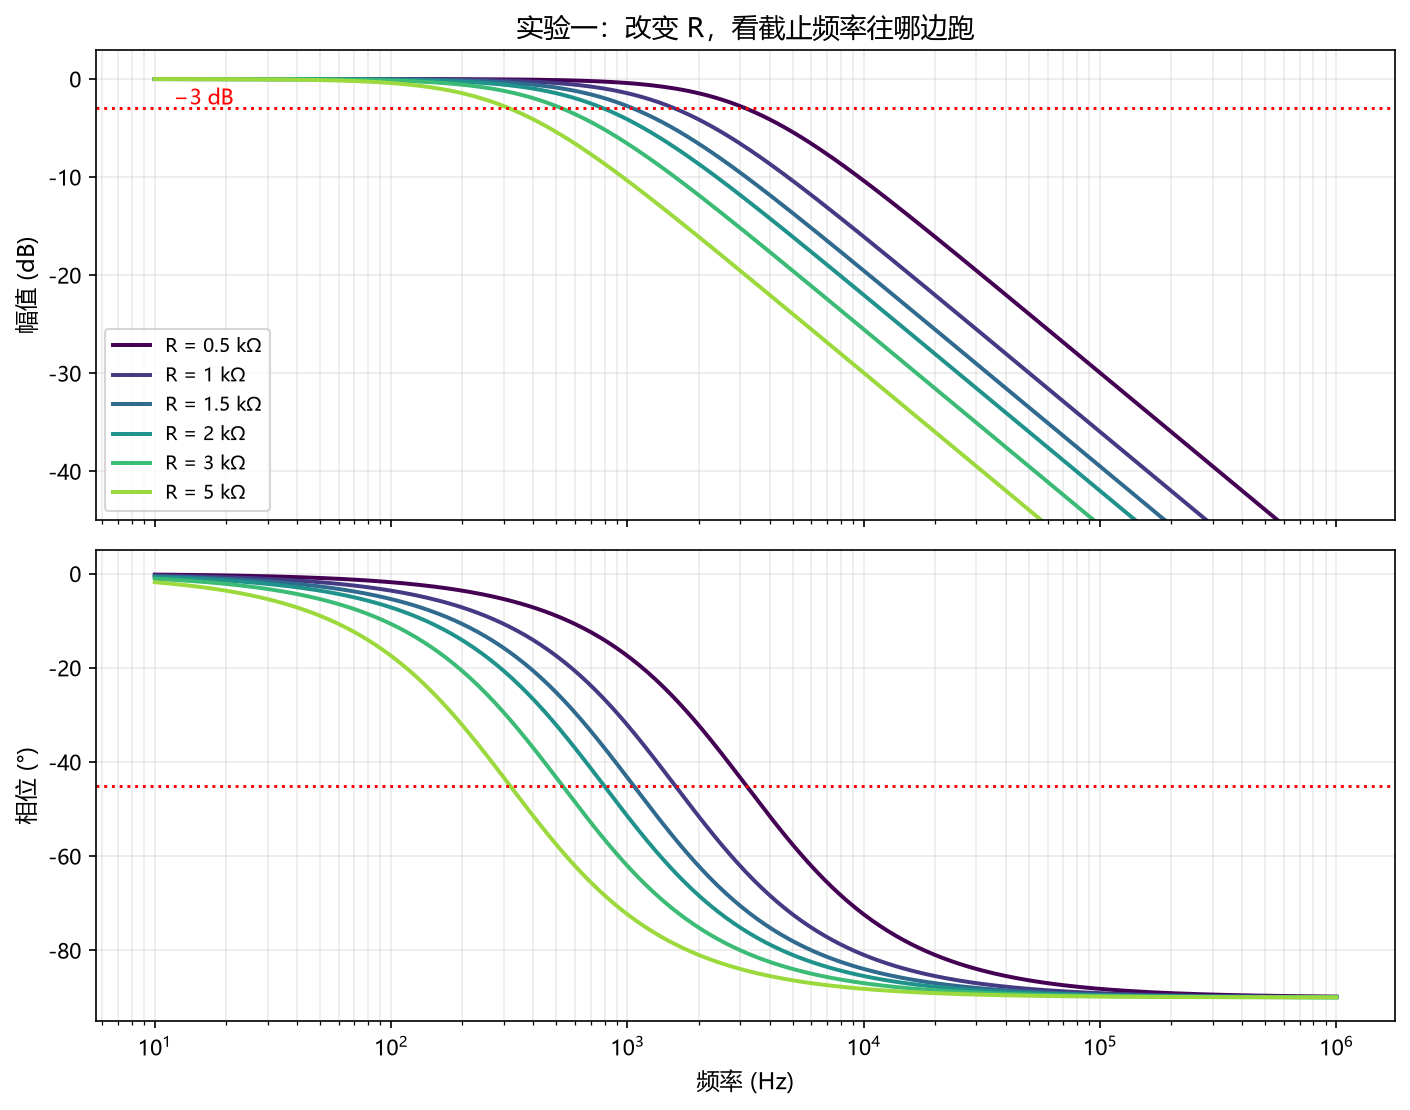
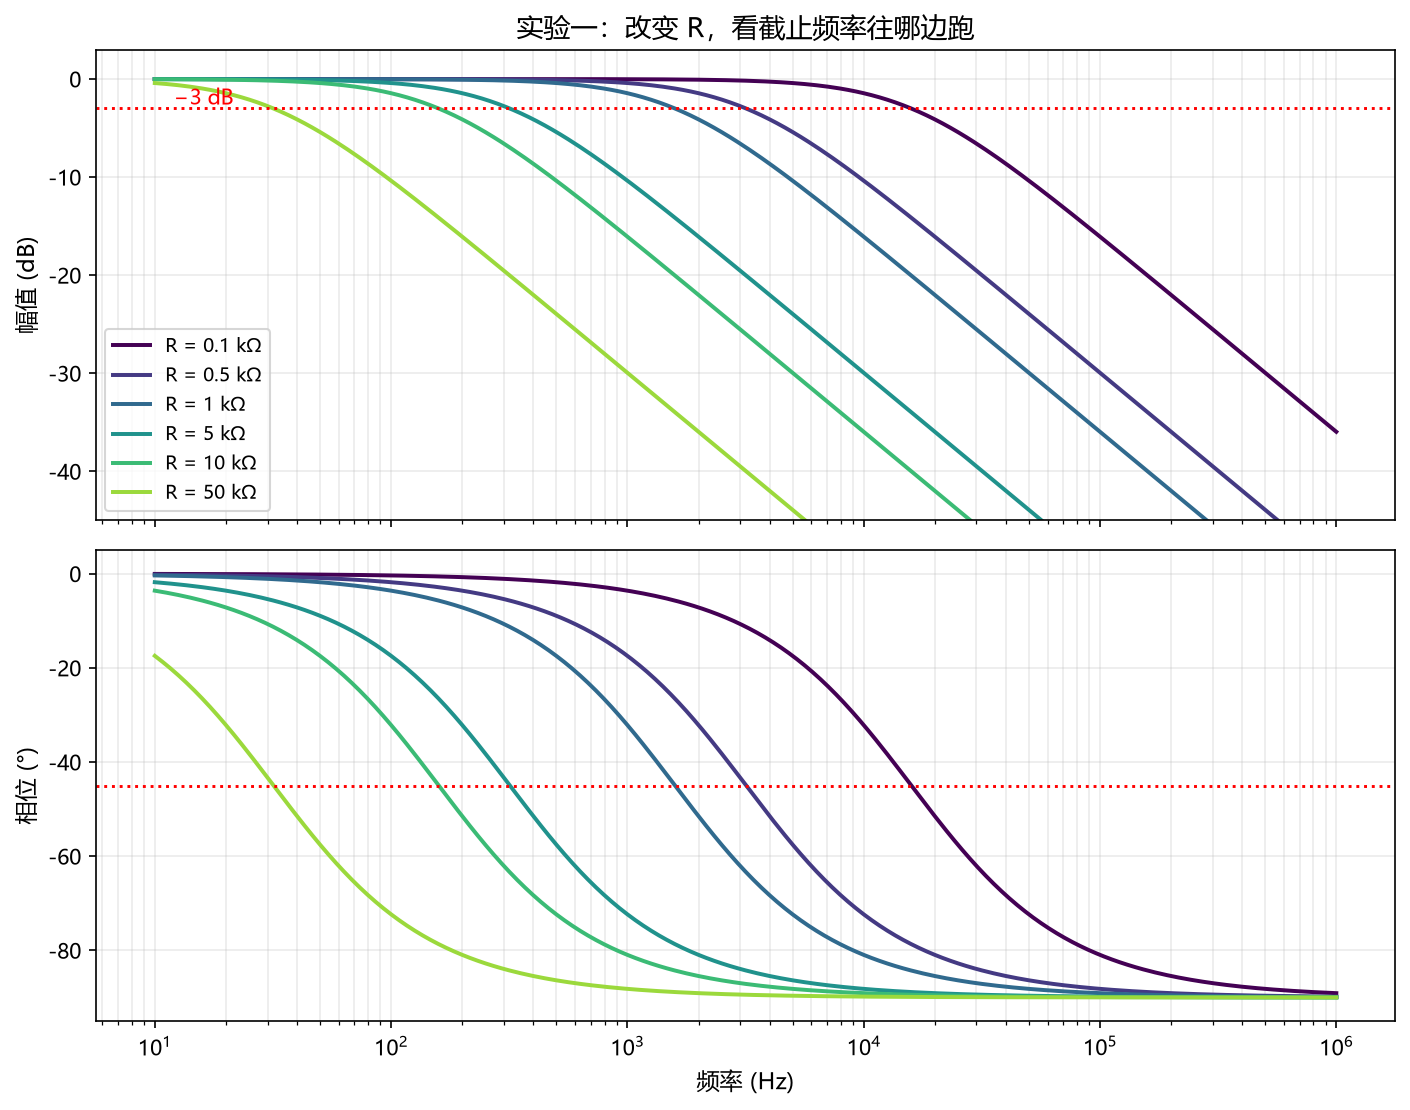
实验区补充：仿真误差来源分析（扫频网格离散化）

diff --git a/experiments/grid_analysis.py b/experiments/grid_analysis.py
@@ -1,0 +1,59 @@
+# -*- coding: utf-8 -*-
+"""验证：为什么仿真误差是 0.42% / 0.65% 交替出现"""
+import sys, os
+sys.stdout.reconfigure(encoding='utf-8')
+import numpy as np
+
+F_START, F_STOP = 10.0, 1e6
+PTS_PER_DEC = 60
+C = 100e-9
+
+print("=" * 96)
+print("  扫频设置的「网格」分析")
+print("=" * 96)
+print(f"  扫频范围    : {F_START:g} Hz ~ {F_STOP:g} Hz")
+print(f"  每十倍频点数: {PTS_PER_DEC}")
+print(f"  相邻点频率比: 10^(1/{PTS_PER_DEC}) = {10**(1/PTS_PER_DEC):.6f}  "
+      f"（即相邻点差 {(10**(1/PTS_PER_DEC)-1)*100:.3f}%）")
+print()
+print(f"  → 也就是说：仿真能找到的「−3 dB 点」永远是网格上的某一点，")
+print(f"     真实 fc 落在两个网格点之间时，就会有误差。")
+print(f"     最大可能误差：{(10**(0.5/PTS_PER_DEC)-1)*100:.3f}%（正好落在两点正中间时）")
+print()
+
+print("=" * 96)
+print("  逐个算 fc 落在网格的什么位置")
+print("=" * 96)
+print()
+print(f"  {'R (kΩ)':>8} {'真实 fc (Hz)':>14} {'网格位置':>10} {'小数部分':>10} "
+      f"{'最近网格点 (Hz)':>16} {'推算误差':>10} {'你实测':>9}")
+print("  " + "-" * 92)
+
+measured = {0.1: 0.42, 0.5: 0.65, 1.0: 0.42, 5.0: 0.65, 10.0: 0.42, 50.0: 0.65}
+
+for r_k in [0.1, 0.5, 1, 5, 10, 50]:
+    fc = 1 / (2 * np.pi * r_k * 1000 * C)
+    dec = np.log10(fc / F_START)          # 距离起点的十倍频程数
+    grid = dec * PTS_PER_DEC               # 相当于第几个网格点
+    frac = grid - np.floor(grid)           # 小数部分 = 落在格子里的相对位置
+    nearest = round(grid)
+    fc_grid = F_START * 10 ** (nearest / PTS_PER_DEC)
+    err = abs(fc_grid - fc) / fc * 100
+    print(f"  {r_k:>8.1f} {fc:>14.1f} {grid:>10.2f} {frac:>10.3f} "
+          f"{fc_grid:>16.1f} {err:>9.3f}% {measured[r_k]:>8.2f}%")
+
+print()
+print("=" * 96)
+print("  结论")
+print("=" * 96)
+print()
+print("  · 0.1 / 1 / 10 kΩ —— 三者相差正好 10 倍（= 整数个十倍频程 = 整数个网格）")
+print("    → 在网格上的「相对位置」完全相同（小数部分都是 0.11）")
+print("    → 误差也完全相同（0.42%）")
+print()
+print("  · 0.5 / 5 / 50 kΩ —— 同样相差 10 倍，但位置不同（小数部分 0.17）")
+print("    → 误差是另一个固定值（0.65%）")
+print()
+print("  · 换句话说：**误差跟你取多大的 R 无关，只跟 fc 落在网格的哪个位置有关**")
+print()
+print("=" * 96)

diff --git a/experiments/parameter_explorer.py b/experiments/parameter_explorer.py
@@ -51,7 +51,7 @@ def exp1_rc():
     print("  " + "-" * 72)
 
     C_FAR = 100e-9
-    R_LIST = [0.5, 1, 1.5, 2, 3, 5]
+    R_LIST = [0.1,0.5, 1, 5, 10, 50]
 
     rows = []
     curves = []

diff --git a/experiments/README.md b/experiments/README.md
@@ -415,6 +415,103 @@ R_d → ∞ 时，|A_v| → g_m·r_o        ← 这叫「本征增益」
 
 ---
 
+
+---
+
+## 📐 深入：仿真误差是怎么来的？（网格离散化）
+
+> 脚本：`grid_analysis.py` ｜ 运行：`python grid_analysis.py`
+
+### 现象：误差是两个固定值在交替
+
+把 RC 的 R 范围扩大到 500 倍后，误差列出现了**奇怪的规律**：
+
+| R (kΩ) | τ (μs) | fc 理论 (Hz) | fc 仿真 (Hz) | 误差 |
+| --- | --- | --- | --- | --- |
+| 0.1 | 10.0 | 15915.5 | 15848.9 | **0.42 %** |
+| 0.5 | 50.0 | 3183.1 | 3162.3 | **0.65 %** |
+| 1.0 | 100.0 | 1591.5 | 1584.9 | **0.42 %** |
+| 5.0 | 500.0 | 318.3 | 316.2 | **0.65 %** |
+| 10.0 | 1000.0 | 159.2 | 158.5 | **0.42 %** |
+| 50.0 | 5000.0 | 31.8 | 31.6 | **0.65 %** |
+
+**注意**：误差**不是**在两头变大，而是 **0.42 % 和 0.65 % 交替**。
+
+### 原因：扫频是「离散网格」，不是连续曲线
+
+脚本里的扫频设置：
+
+```
+频率范围：10 Hz ~ 1 MHz
+密度    ：每十倍频 60 个点
+→ 相邻点频率比 = 10^(1/60) = 1.039122，即相差 3.912%
+→ 最大可能误差 = 1.937%（真实 fc 正好落在两点正中间时）
+```
+
+**仿真找「−3 dB 点」的方法**是：在扫频数据里找**增益最接近 −3 dB 的那个采样点**。
+
+**所以真实 fc 如果落在两个采样点之间，就会有误差。**
+
+### 关键：误差只取决于「fc 落在网格的哪个位置」
+
+| R (kΩ) | 真实 fc (Hz) | 网格位置 | 小数部分 | 最近网格点 (Hz) | 推算误差 | 实测误差 |
+| --- | --- | --- | --- | --- | --- | --- |
+| 0.1 | 15915.5 | 192.**11** | .11 | 15848.9 | 0.418 % | **0.42 %** |
+| 0.5 | 3183.1 | 150.**17** | .17 | 3162.3 | 0.654 % | **0.65 %** |
+| 1.0 | 1591.5 | 132.**11** | .11 | 1584.9 | 0.418 % | **0.42 %** |
+| 5.0 | 318.3 | 90.**17** | .17 | 316.2 | 0.654 % | **0.65 %** |
+| 10.0 | 159.2 | 72.**11** | .11 | 158.5 | 0.418 % | **0.42 %** |
+| 50.0 | 31.8 | 30.**17** | .17 | 31.6 | 0.654 % | **0.65 %** |
+
+**推算值和实测值完全吻合** —— 说明误差的来源就是这个。
+
+### 为什么会有「两组完全相同的小数」？
+
+因为 **0.1 / 1 / 10** 这三个值**正好相差 10 倍**：
+
+```
+在对数扫频网格上，10 倍 = 整数个十倍频程 = 整数个格子
+→ 三者落在完全相同的「相对位置」上（小数部分都是 .11）
+→ 误差自然完全相同
+```
+
+同理 **0.5 / 5 / 50** 是另一组（小数部分都是 .17）。
+
+### 💡 结论
+
+| 常见误解 | 实际情况 |
+| --- | --- |
+| 「R 太大或太小，所以误差大」 | ❌ 不是 |
+| 「公式不够准」 | ❌ 不是 |
+| 「扫频范围不够宽」 | ❌ 不是 |
+| **误差只取决于 fc 落在扫频网格的哪个位置** | ✅ **这才是真相** |
+
+**这属于「数值离散化误差」，不是物理误差。**
+
+### 🔧 想减小误差怎么办？
+
+**加密扫频点**。把 `number_of_points=60` 改成 `300`：
+
+```
+相邻点频率比：10^(1/300) = 1.00770  → 相差 0.770%
+最大可能误差：0.385%（比原来的 1.937% 小 5 倍）
+```
+
+**代价**：计算量变成 5 倍，跑得慢一些。
+
+> **这就是仿真中的通用权衡：点数越多越准，但算得越慢。**
+
+### 📌 这个发现的实际意义
+
+以后看到仿真结果有 **0.x % 的小误差**时，**先别急着怀疑公式或模型** —— 很可能只是：
+
+- **扫频/扫描的点不够密**
+- 或者 **fc 恰好落在两个采样点之间**
+
+**判断方法**：把点数加密一倍再跑一次，如果误差明显变小 → **就是离散化误差**，不是模型问题。
+
+---
+
 ## 📌 和作业的关系
 
 这个目录是**课外探索**，作业的提交内容是：
